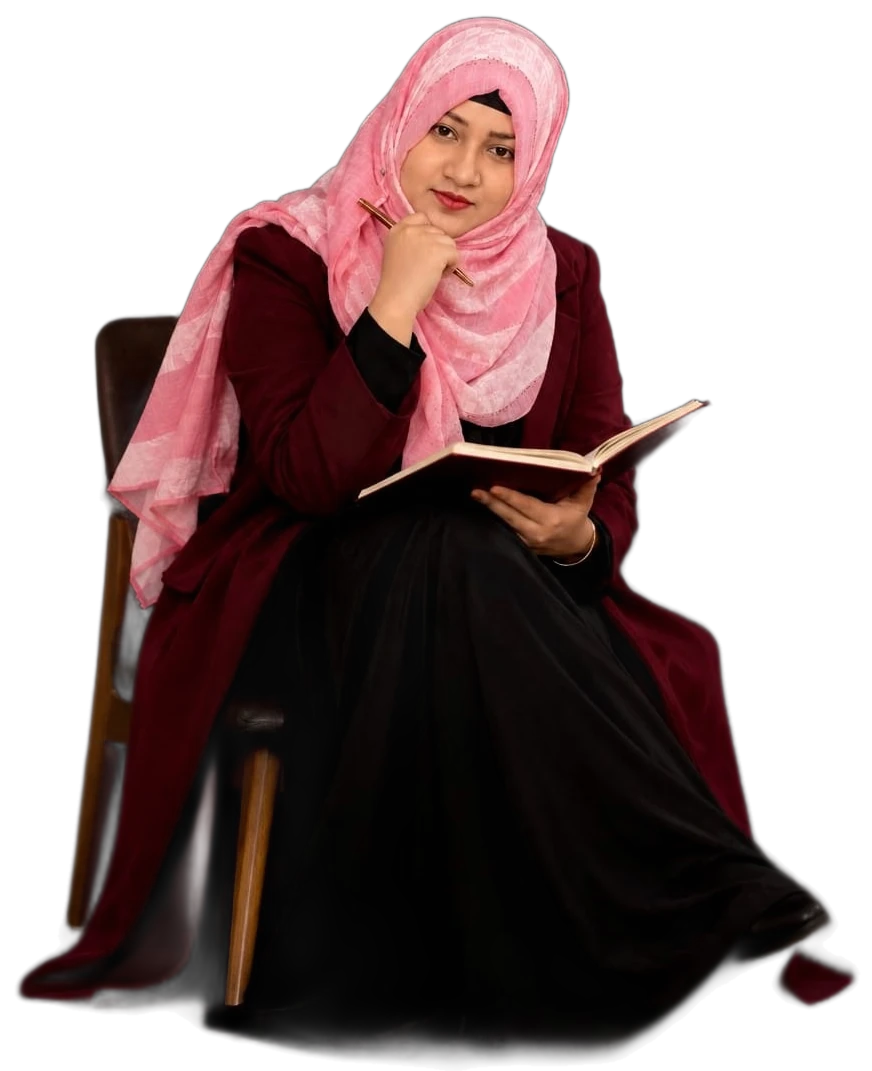
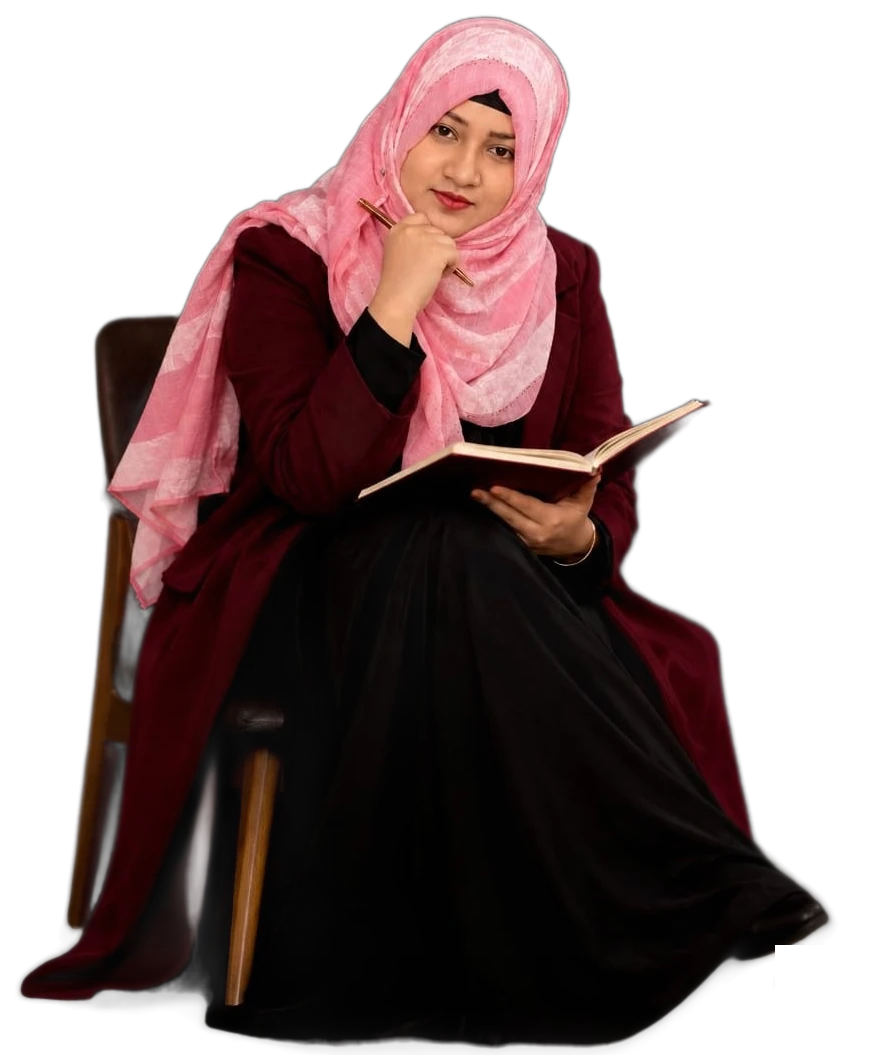
v5.1: cleaner cutout hem, less overlap

diff --git a/index.html b/index.html
@@ -18,7 +18,7 @@
 <link rel="preload" href="assets/fonts/anton.woff2" as="font" type="font/woff2" crossorigin>
 <link rel="preload" href="assets/fonts/bric-400.woff2" as="font" type="font/woff2" crossorigin>
 <link rel="preload" href="assets/fonts/inst-italic.woff2" as="font" type="font/woff2" crossorigin>
-<link rel="stylesheet" href="assets/styles.css?v=e00a83cf">
+<link rel="stylesheet" href="assets/styles.css?v=8c2afae1">
 <script>document.documentElement.classList.add("js");setTimeout(function(){if(!window.__vob)document.documentElement.classList.remove("js")},4000)</script>
 </head>
 <body>
@@ -41,7 +41,7 @@
   <div class="btns"><a class="btn" href="https://topmate.io/fathima_samreen/504857" target="_blank" rel="noopener">Book a free Clarity Call</a><a class="btn ghost" href="freebies.html">Get the free workbook</a></div>
   <div class="award-chip"><b>SIWAA 2025</b> Changemaker Award · South India Women Achievers</div>
  </div>
- <div class="hero-photo hero-cut"><img src="assets/img/fathima-hero-cutout.webp" alt="Fathima Samreen, founder of The Voice of Becoming Studio" width="872" height="1071" fetchpriority="high"></div>
+ <div class="hero-photo hero-cut"><img src="assets/img/fathima-hero-cutout.webp" alt="Fathima Samreen, founder of The Voice of Becoming Studio" width="872" height="1055" fetchpriority="high"></div>
 </div>
 <div class="wordmark" aria-hidden="true"><span>Voice of Becoming</span></div>
 </section>
@@ -147,6 +147,6 @@
  </div>
  <div class="foot-bottom"><div class="wrap foot-bottom-in"><span>© 2026 The Voice of Becoming Studio. All rights reserved.</span><span><a href="mailto:fathima@voiceofbecoming.com">fathima@voiceofbecoming.com</a></span></div></div>
 </footer>
-<script src="assets/site.js?v=e00a83cf" defer></script>
+<script src="assets/site.js?v=8c2afae1" defer></script>
 </body>
 </html>

diff --git a/assets/styles.css b/assets/styles.css
@@ -327,15 +327,15 @@ details.faq p{margin:12px 0 0;color:var(--muted)}
 .wordmark span,.wordmark .l{background:none!important;-webkit-background-clip:border-box;background-clip:border-box;color:var(--red)}
 .hero-cut{z-index:2;transform-origin:50% 100%}
 .wordmark .wd{display:inline-block;white-space:nowrap}
-.hero-cut img{-webkit-mask-image:linear-gradient(to bottom,#000 96%,transparent 100%);mask-image:linear-gradient(to bottom,#000 96%,transparent 100%);filter:drop-shadow(0 18px 30px rgba(0,0,0,.45))}
+.hero-cut img{-webkit-mask-image:none;mask-image:none}
 @media(max-width:899px){
  .hero{--fw:min(100vw - 40px,520px);--mwm:min(21.5vw,150px)}
  .hero-cut{width:var(--fw);margin:calc(var(--mwm) * 1.68) auto 0;z-index:2}
  .hero-cut img{width:100%;height:auto}
- .hero .wordmark{position:absolute;left:0;right:0;bottom:calc(var(--fw) * 1.228 * .93);margin:0;padding:0;font-size:var(--mwm);line-height:.88;white-space:normal}
+ .hero .wordmark{position:absolute;left:0;right:0;bottom:calc(var(--fw) * 1.21 * .93);margin:0;padding:0;font-size:var(--mwm);line-height:.88;white-space:normal}
 }
 @media(min-width:900px){
  .hero .hero-grid{min-height:clamp(420px,calc(100vh - 80px - var(--wm) * .86),760px);min-height:clamp(420px,calc(100svh - 80px - var(--wm) * .86),760px)}
- .hero-cut{position:absolute;top:clamp(8px,2vh,22px);bottom:calc(var(--wm) * .56);right:max(0px,calc(50% - 640px));width:46%;margin:0;-webkit-mask-image:none;mask-image:none}
+ .hero-cut{position:absolute;top:clamp(8px,2vh,22px);bottom:calc(var(--wm) * .6);right:max(0px,calc(50% - 640px));width:46%;margin:0;-webkit-mask-image:none;mask-image:none}
  .hero-cut img{width:100%;height:100%;object-fit:contain;object-position:50% 100%}
 }

diff --git a/blog/four-questions-before-i-write.html b/blog/four-questions-before-i-write.html
@@ -18,7 +18,7 @@
 <link rel="preload" href="../assets/fonts/anton.woff2" as="font" type="font/woff2" crossorigin>
 <link rel="preload" href="../assets/fonts/bric-400.woff2" as="font" type="font/woff2" crossorigin>
 <link rel="preload" href="../assets/fonts/inst-italic.woff2" as="font" type="font/woff2" crossorigin>
-<link rel="stylesheet" href="../assets/styles.css?v=e00a83cf">
+<link rel="stylesheet" href="../assets/styles.css?v=8c2afae1">
 <script>document.documentElement.classList.add("js");setTimeout(function(){if(!window.__vob)document.documentElement.classList.remove("js")},4000)</script>
 </head>
 <body>
@@ -97,6 +97,6 @@
  </div>
  <div class="foot-bottom"><div class="wrap foot-bottom-in"><span>© 2026 The Voice of Becoming Studio. All rights reserved.</span><span><a href="mailto:fathima@voiceofbecoming.com">fathima@voiceofbecoming.com</a></span></div></div>
 </footer>
-<script src="../assets/site.js?v=e00a83cf" defer></script>
+<script src="../assets/site.js?v=8c2afae1" defer></script>
 </body>
 </html>

diff --git a/blog/the-articulation-gap.html b/blog/the-articulation-gap.html
@@ -18,7 +18,7 @@
 <link rel="preload" href="../assets/fonts/anton.woff2" as="font" type="font/woff2" crossorigin>
 <link rel="preload" href="../assets/fonts/bric-400.woff2" as="font" type="font/woff2" crossorigin>
 <link rel="preload" href="../assets/fonts/inst-italic.woff2" as="font" type="font/woff2" crossorigin>
-<link rel="stylesheet" href="../assets/styles.css?v=e00a83cf">
+<link rel="stylesheet" href="../assets/styles.css?v=8c2afae1">
 <script>document.documentElement.classList.add("js");setTimeout(function(){if(!window.__vob)document.documentElement.classList.remove("js")},4000)</script>
 </head>
 <body>
@@ -94,6 +94,6 @@
  </div>
  <div class="foot-bottom"><div class="wrap foot-bottom-in"><span>© 2026 The Voice of Becoming Studio. All rights reserved.</span><span><a href="mailto:fathima@voiceofbecoming.com">fathima@voiceofbecoming.com</a></span></div></div>
 </footer>
-<script src="../assets/site.js?v=e00a83cf" defer></script>
+<script src="../assets/site.js?v=8c2afae1" defer></script>
 </body>
 </html>

diff --git a/about.html b/about.html
@@ -18,7 +18,7 @@
 <link rel="preload" href="assets/fonts/anton.woff2" as="font" type="font/woff2" crossorigin>
 <link rel="preload" href="assets/fonts/bric-400.woff2" as="font" type="font/woff2" crossorigin>
 <link rel="preload" href="assets/fonts/inst-italic.woff2" as="font" type="font/woff2" crossorigin>
-<link rel="stylesheet" href="assets/styles.css?v=e00a83cf">
+<link rel="stylesheet" href="assets/styles.css?v=8c2afae1">
 <script>document.documentElement.classList.add("js");setTimeout(function(){if(!window.__vob)document.documentElement.classList.remove("js")},4000)</script>
 </head>
 <body>
@@ -127,6 +127,6 @@
  </div>
  <div class="foot-bottom"><div class="wrap foot-bottom-in"><span>© 2026 The Voice of Becoming Studio. All rights reserved.</span><span><a href="mailto:fathima@voiceofbecoming.com">fathima@voiceofbecoming.com</a></span></div></div>
 </footer>
-<script src="assets/site.js?v=e00a83cf" defer></script>
+<script src="assets/site.js?v=8c2afae1" defer></script>
 </body>
 </html>

diff --git a/blog.html b/blog.html
@@ -18,7 +18,7 @@
 <link rel="preload" href="assets/fonts/anton.woff2" as="font" type="font/woff2" crossorigin>
 <link rel="preload" href="assets/fonts/bric-400.woff2" as="font" type="font/woff2" crossorigin>
 <link rel="preload" href="assets/fonts/inst-italic.woff2" as="font" type="font/woff2" crossorigin>
-<link rel="stylesheet" href="assets/styles.css?v=e00a83cf">
+<link rel="stylesheet" href="assets/styles.css?v=8c2afae1">
 <script>document.documentElement.classList.add("js");setTimeout(function(){if(!window.__vob)document.documentElement.classList.remove("js")},4000)</script>
 </head>
 <body>
@@ -81,6 +81,6 @@
  </div>
  <div class="foot-bottom"><div class="wrap foot-bottom-in"><span>© 2026 The Voice of Becoming Studio. All rights reserved.</span><span><a href="mailto:fathima@voiceofbecoming.com">fathima@voiceofbecoming.com</a></span></div></div>
 </footer>
-<script src="assets/site.js?v=e00a83cf" defer></script>
+<script src="assets/site.js?v=8c2afae1" defer></script>
 </body>
 </html>

diff --git a/calendar.html b/calendar.html
@@ -18,7 +18,7 @@
 <link rel="preload" href="assets/fonts/anton.woff2" as="font" type="font/woff2" crossorigin>
 <link rel="preload" href="assets/fonts/bric-400.woff2" as="font" type="font/woff2" crossorigin>
 <link rel="preload" href="assets/fonts/inst-italic.woff2" as="font" type="font/woff2" crossorigin>
-<link rel="stylesheet" href="assets/styles.css?v=e00a83cf">
+<link rel="stylesheet" href="assets/styles.css?v=8c2afae1">
 <script>document.documentElement.classList.add("js");setTimeout(function(){if(!window.__vob)document.documentElement.classList.remove("js")},4000)</script>
 </head>
 <body>
@@ -88,6 +88,6 @@
  </div>
  <div class="foot-bottom"><div class="wrap foot-bottom-in"><span>© 2026 The Voice of Becoming Studio. All rights reserved.</span><span><a href="mailto:fathima@voiceofbecoming.com">fathima@voiceofbecoming.com</a></span></div></div>
 </footer>
-<script src="assets/site.js?v=e00a83cf" defer></script>
+<script src="assets/site.js?v=8c2afae1" defer></script>
 </body>
 </html>

diff --git a/freebies.html b/freebies.html
@@ -18,7 +18,7 @@
 <link rel="preload" href="assets/fonts/anton.woff2" as="font" type="font/woff2" crossorigin>
 <link rel="preload" href="assets/fonts/bric-400.woff2" as="font" type="font/woff2" crossorigin>
 <link rel="preload" href="assets/fonts/inst-italic.woff2" as="font" type="font/woff2" crossorigin>
-<link rel="stylesheet" href="assets/styles.css?v=e00a83cf">
+<link rel="stylesheet" href="assets/styles.css?v=8c2afae1">
 <script>document.documentElement.classList.add("js");setTimeout(function(){if(!window.__vob)document.documentElement.classList.remove("js")},4000)</script>
 </head>
 <body>
@@ -97,6 +97,6 @@
  </div>
  <div class="foot-bottom"><div class="wrap foot-bottom-in"><span>© 2026 The Voice of Becoming Studio. All rights reserved.</span><span><a href="mailto:fathima@voiceofbecoming.com">fathima@voiceofbecoming.com</a></span></div></div>
 </footer>
-<script src="assets/site.js?v=e00a83cf" defer></script>
+<script src="assets/site.js?v=8c2afae1" defer></script>
 </body>
 </html>

diff --git a/newsletter.html b/newsletter.html
@@ -18,7 +18,7 @@
 <link rel="preload" href="assets/fonts/anton.woff2" as="font" type="font/woff2" crossorigin>
 <link rel="preload" href="assets/fonts/bric-400.woff2" as="font" type="font/woff2" crossorigin>
 <link rel="preload" href="assets/fonts/inst-italic.woff2" as="font" type="font/woff2" crossorigin>
-<link rel="stylesheet" href="assets/styles.css?v=e00a83cf">
+<link rel="stylesheet" href="assets/styles.css?v=8c2afae1">
 <script>document.documentElement.classList.add("js");setTimeout(function(){if(!window.__vob)document.documentElement.classList.remove("js")},4000)</script>
 </head>
 <body>
@@ -95,6 +95,6 @@
  </div>
  <div class="foot-bottom"><div class="wrap foot-bottom-in"><span>© 2026 The Voice of Becoming Studio. All rights reserved.</span><span><a href="mailto:fathima@voiceofbecoming.com">fathima@voiceofbecoming.com</a></span></div></div>
 </footer>
-<script src="assets/site.js?v=e00a83cf" defer></script>
+<script src="assets/site.js?v=8c2afae1" defer></script>
 </body>
 </html>
